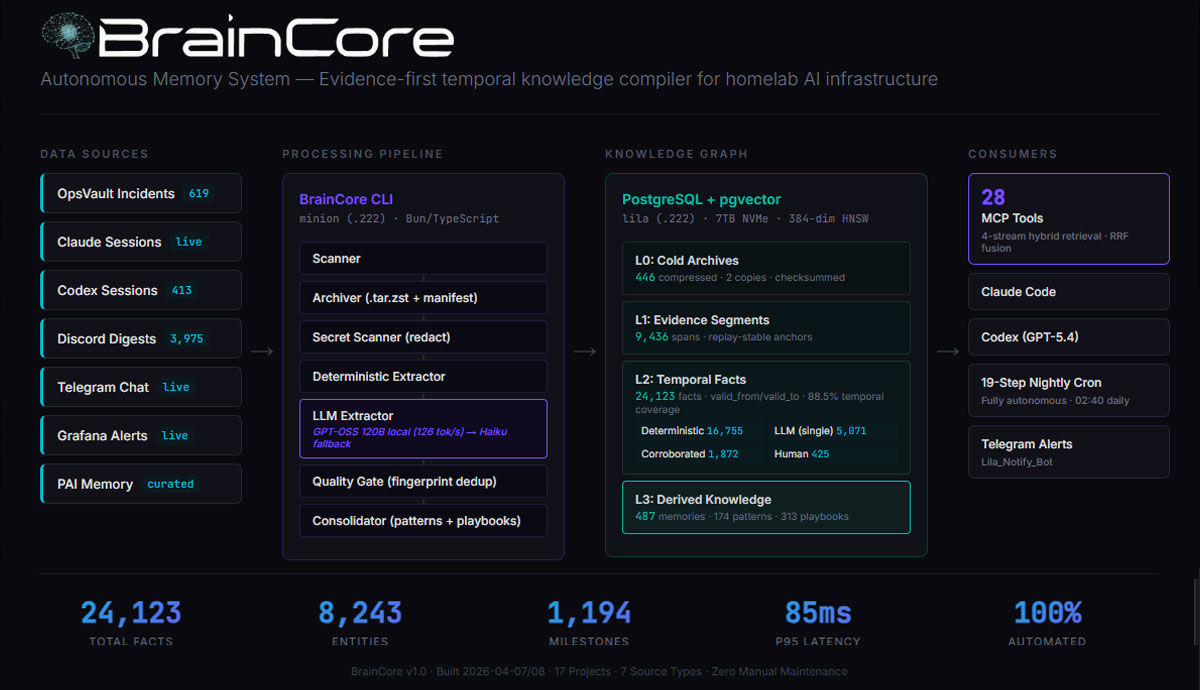
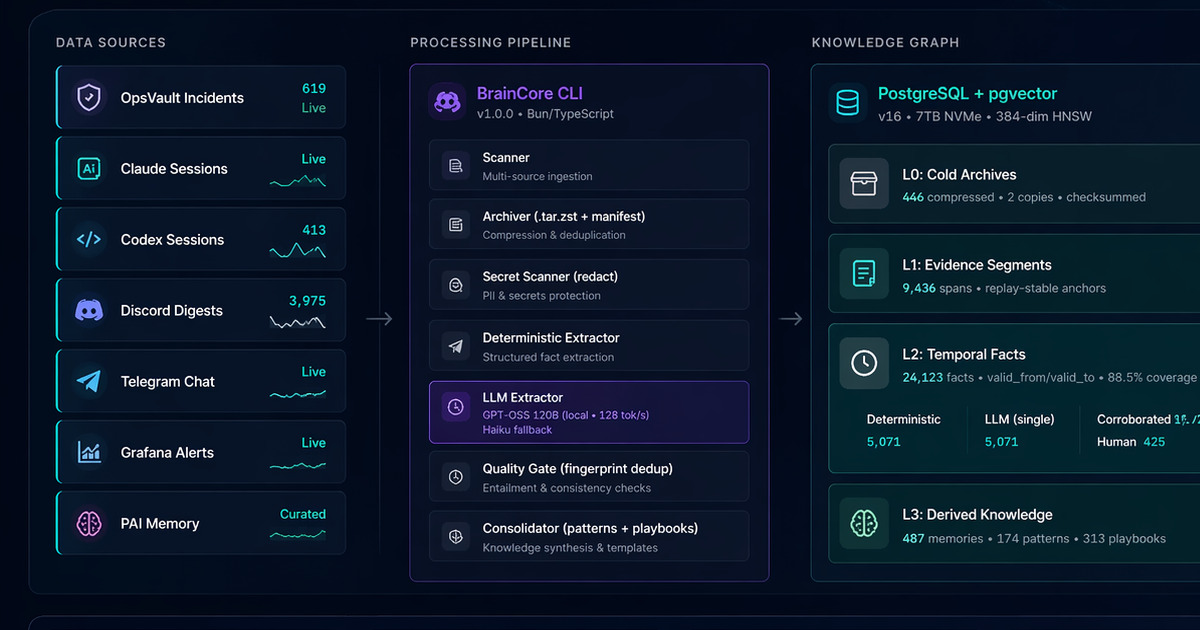
docs: refresh README assets from v2 exports

diff --git a/assets/README.md b/assets/README.md
@@ -6,9 +6,9 @@ The current BrainCore visuals are committed in this repository. Files marked `Ac
 |---|---|---|---|---|
 | `logo-square.jpg` | Active | 500 by 500 | JPEG | README hero block |
 | `logo-horizontal.png` | Active | 600 by 70 | PNG | Alternate wordmark |
-| `og.jpg` | Active | 1200 by 690 | JPEG | GitHub social preview |
-| `architecture.jpg` | Active | 1200 by 690 | JPEG | README architecture section |
-| `dashboard.png` | Active | 1080 by 677 | PNG | README pipeline section |
+| `og.jpg` | Active | 1200 by 630 | JPEG | GitHub social preview |
+| `architecture.jpg` | Active | 1653 by 952 | JPEG | README architecture section |
+| `dashboard.png` | Active | 1672 by 941 | PNG | README pipeline section |
 | `README.md` | Reference | n/a | Markdown | Asset manifest |
 
 Notes:
@@ -16,6 +16,6 @@ Notes:
 - All visuals avoid hostnames, IP addresses, internal paths, and private
   metadata
 - The square logo is now the active README hero image
-- The architecture image is now the active README architecture asset
-- The dashboard image is the active pipeline screenshot
-- The social preview uses the `v1` image
+- The architecture image is the refreshed README architecture asset
+- The dashboard image is the active refreshed results screenshot
+- The social preview is cropped from the refreshed results image
